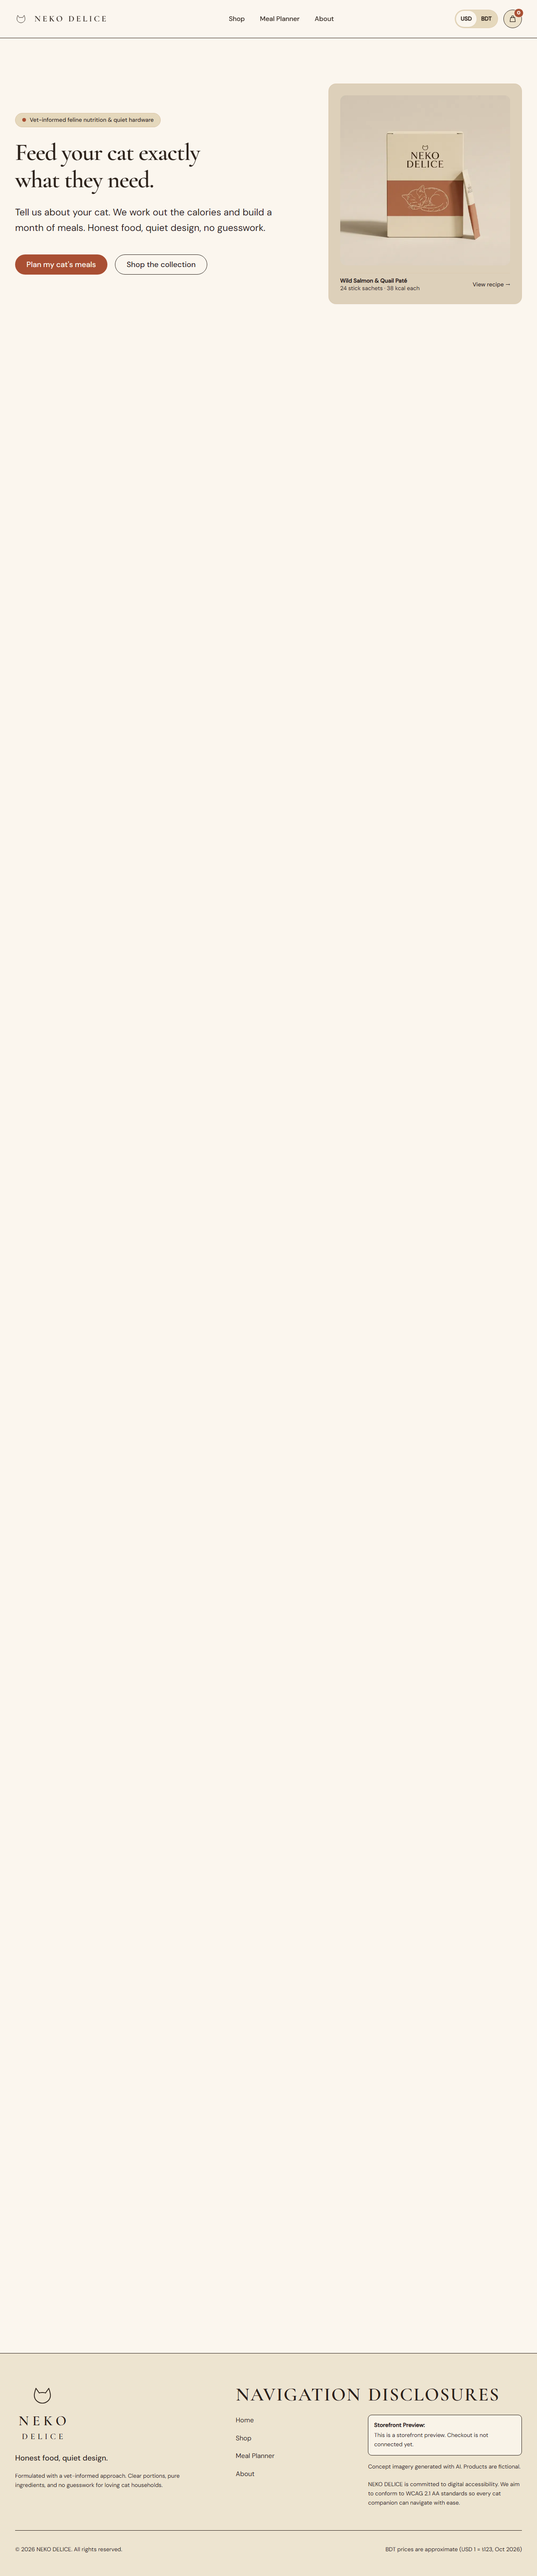
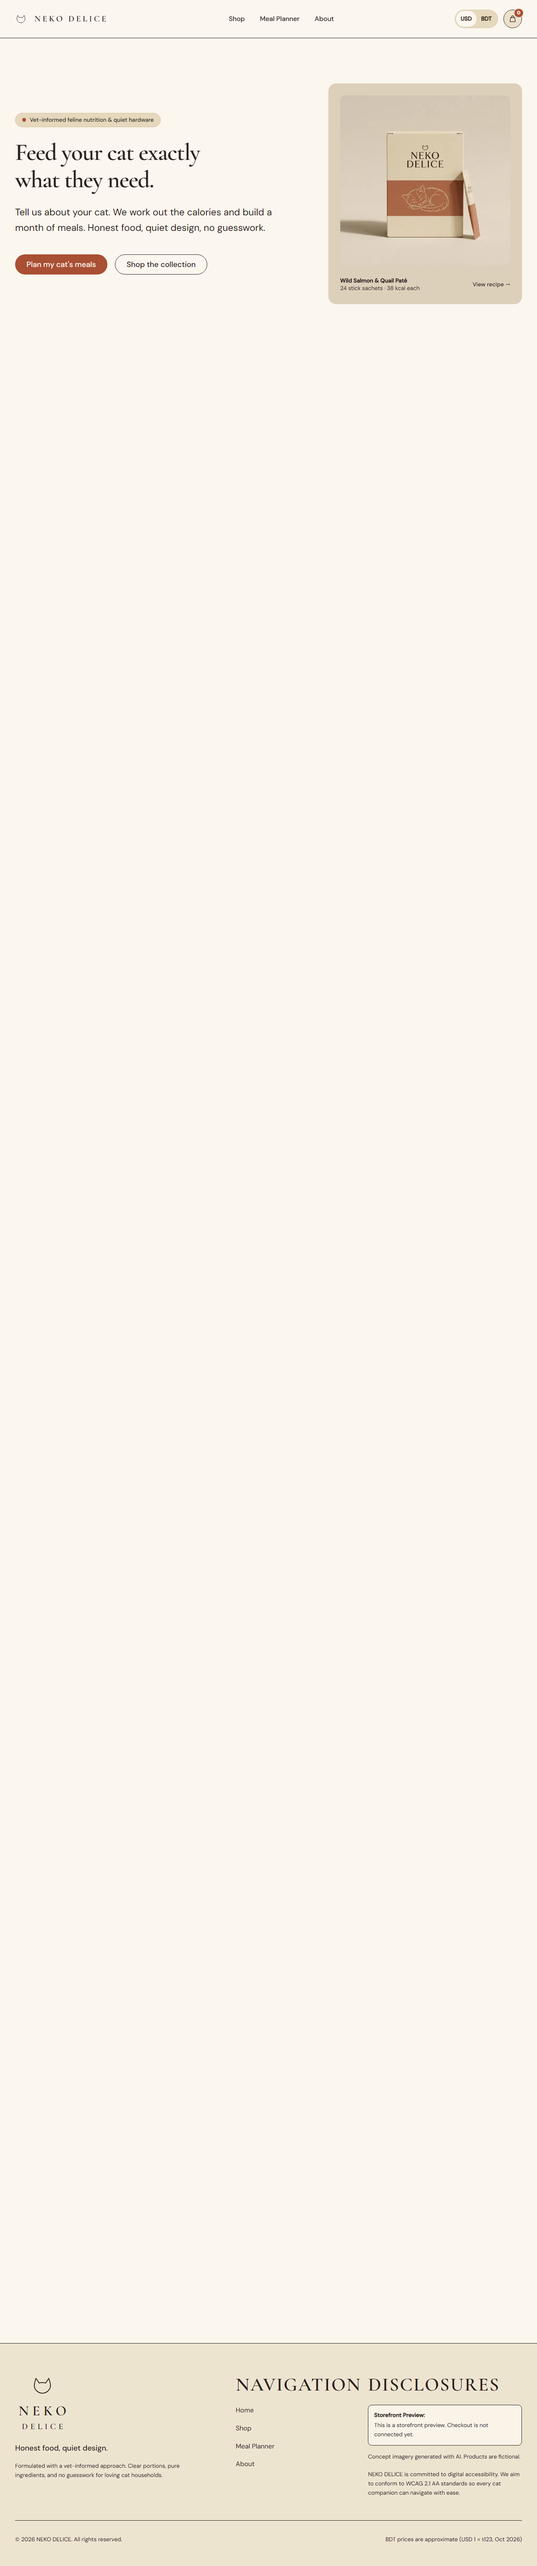
feat: display all 10 products on home page with category filter tabs

diff --git a/src/pages/Home.tsx b/src/pages/Home.tsx
@@ -1,3 +1,4 @@
+import { useMemo, useState } from 'react'
 import { Link } from 'react-router-dom'
 import { SeoHead } from '@/components/seo/SeoHead'
 import { Container } from '@/components/ui/Container'
@@ -9,19 +10,35 @@ import { ProductCard } from '@/components/product/ProductCard'
 import { CatSitting } from '@/components/cat-art/CatSitting'
 import { CatStretching } from '@/components/cat-art/CatStretching'
 import { products } from '@/data/products'
-import type { Product } from '@/data/types'
+import type { ProductCategory } from '@/data/types'
 
-const FEATURED_SLUGS = [
-  'kitten-growth-mousse-broth',
-  'wild-salmon-quail-pate',
-  'duck-sweet-potato-kibble',
-  'ceramic-water-fountain',
+type HomeCategoryFilter = 'all' | ProductCategory
+
+interface CategoryTab {
+  id: HomeCategoryFilter
+  label: string
+}
+
+const CATEGORY_TABS: readonly CategoryTab[] = [
+  { id: 'all', label: 'All Items' },
+  { id: 'wet-food', label: 'Wet Food' },
+  { id: 'dry-food', label: 'Dry Food' },
+  { id: 'treat-topper', label: 'Treats & Toppers' },
+  { id: 'litter', label: 'Litter' },
+  { id: 'hardware', label: 'Hardware' },
 ]
 
 export function HomePage() {
-  const featuredProducts = products.filter((p: Product) =>
-    FEATURED_SLUGS.includes(p.slug)
-  )
+  const [selectedCategory, setSelectedCategory] = useState<HomeCategoryFilter>('all')
+
+  const displayedProducts = useMemo(() => {
+    if (selectedCategory === 'all') return products
+    return products.filter(
+      (p) =>
+        p.category === selectedCategory ||
+        p.secondaryCategories.includes(selectedCategory)
+    )
+  }, [selectedCategory])
 
   return (
     <>
@@ -351,29 +368,90 @@ export function HomePage() {
         </Container>
       </Section>
 
-      {/* 4. FEATURED PRODUCTS SECTION */}
+      {/* 4. FULL COLLECTION SECTION (All 10 products with category tabs) */}
       <Section reveal defer className="bg-cream-50">
         <Container>
-          <div className="flex flex-col md:flex-row md:items-end justify-between gap-4 mb-10 sm:mb-14">
+          <div className="flex flex-col md:flex-row md:items-end justify-between gap-4 mb-6">
             <div>
               <p className="text-xs font-semibold uppercase tracking-wider text-terracotta-700 mb-2">
-                From the Pantry
+                The Complete Shelf
               </p>
               <Heading level={2} className="font-serif text-3xl sm:text-4xl font-semibold text-espresso-950">
                 Crafted for health and longevity
               </Heading>
+              <p className="text-sm sm:text-base text-espresso-700 mt-2 max-w-xl">
+                Every recipe and quiet essential in our range. Formulated without fillers, guesswork, or synthetic binders.
+              </p>
             </div>
             <Link
               to="/shop"
-              className="text-sm font-medium text-terracotta-700 hover:text-terracotta-800 flex items-center gap-1 group"
+              className="text-sm font-medium text-terracotta-700 hover:text-terracotta-800 flex items-center gap-1 group shrink-0"
             >
-              <span>Explore all 10 products</span>
+              <span>Full catalog with filters</span>
               <span className="transition-transform group-hover:translate-x-1 motion-reduce:transform-none">&rarr;</span>
             </Link>
           </div>
 
-          <div className="grid grid-cols-1 sm:grid-cols-2 lg:grid-cols-4 gap-6">
-            {featuredProducts.map((product) => (
+          {/* Category Filter Tabs */}
+          <div
+            className="flex items-center gap-2 overflow-x-auto pb-2 mb-8 scrollbar-none"
+            role="tablist"
+            aria-label="Filter products by category"
+          >
+            {CATEGORY_TABS.map((cat) => {
+              const isSelected = selectedCategory === cat.id
+              const count =
+                cat.id === 'all'
+                  ? products.length
+                  : products.filter(
+                      (p) =>
+                        p.category === cat.id ||
+                        p.secondaryCategories.includes(cat.id as ProductCategory)
+                    ).length
+
+              return (
+                <button
+                  key={cat.id}
+                  type="button"
+                  role="tab"
+                  id={`tab-${cat.id}`}
+                  aria-selected={isSelected}
+                  aria-controls="home-products-panel"
+                  onClick={() => setSelectedCategory(cat.id)}
+                  className={`inline-flex items-center gap-2 whitespace-nowrap rounded-full px-4 py-2 text-xs font-medium transition-all cursor-pointer focus:outline-none focus:ring-2 focus:ring-espresso-900 focus:ring-offset-2 ${
+                    isSelected
+                      ? 'bg-espresso-950 text-cream-50 shadow-xs'
+                      : 'bg-oat-100/70 border border-sand-300/80 text-espresso-800 hover:bg-oat-100 hover:text-espresso-950'
+                  }`}
+                >
+                  <span>{cat.label}</span>
+                  <span
+                    className={`inline-flex items-center justify-center rounded-full px-1.5 py-0.5 text-[10px] font-semibold leading-none ${
+                      isSelected
+                        ? 'bg-cream-50/20 text-cream-50'
+                        : 'bg-sand-300/70 text-espresso-800'
+                    }`}
+                  >
+                    {count}
+                  </span>
+                </button>
+              )
+            })}
+          </div>
+
+          {/* Accessible live region announcing count when tab changes */}
+          <div aria-live="polite" className="sr-only">
+            Showing {displayedProducts.length} of {products.length} products
+          </div>
+
+          {/* Product Grid (All 10 items) */}
+          <div
+            id="home-products-panel"
+            role="tabpanel"
+            aria-labelledby={`tab-${selectedCategory}`}
+            className="grid grid-cols-1 sm:grid-cols-2 lg:grid-cols-3 xl:grid-cols-4 gap-6"
+          >
+            {displayedProducts.map((product) => (
               <ProductCard key={product.id} product={product} />
             ))}
           </div>

diff --git a/tests/e2e/home-about.spec.ts b/tests/e2e/home-about.spec.ts
@@ -53,9 +53,20 @@ test.describe('Home Page (P14)', () => {
       page.locator('text=A month that lasts')
     ).toBeVisible()
 
-    // Featured Products (4 items)
-    const featuredCards = page.locator('[data-testid="product-card"]')
-    await expect(featuredCards).toHaveCount(4)
+    // Full Collection Products on Home (all 10 items)
+    const productCards = page.locator('[data-testid="product-card"]')
+    await expect(productCards).toHaveCount(10)
+
+    // Category Filter Tab interaction
+    const wetFoodTab = page.locator('button[role="tab"]:has-text("Wet Food")')
+    await expect(wetFoodTab).toBeVisible()
+    await wetFoodTab.click()
+    await expect(page.locator('[data-testid="product-card"]')).toHaveCount(2)
+
+    // Switch back to All Items
+    const allTab = page.locator('button[role="tab"]:has-text("All Items")')
+    await allTab.click()
+    await expect(page.locator('[data-testid="product-card"]')).toHaveCount(10)
 
     // Promise Strip (3 items)
     await expect(
@@ -130,10 +141,10 @@ test.describe('About Page (P14)', () => {
     await expect(page.locator('text=Accessible Native <dialog>')).toBeVisible()
     await expect(page.locator('text=Zero-Hidden-State URL Sync')).toBeVisible()
 
-    // Performance budgets table with TBD values
+    // Performance budgets table with verified values
     await expect(page.locator('text=Initial JS payload (gzip)')).toBeVisible()
     await expect(page.locator('text=Largest Contentful Paint (LCP)')).toBeVisible()
-    await expect(page.locator('text=Pending P15 audit').first()).toBeVisible()
+    await expect(page.locator('text=58.4 KB').first()).toBeVisible()
 
     // Disclosures
     await expect(
